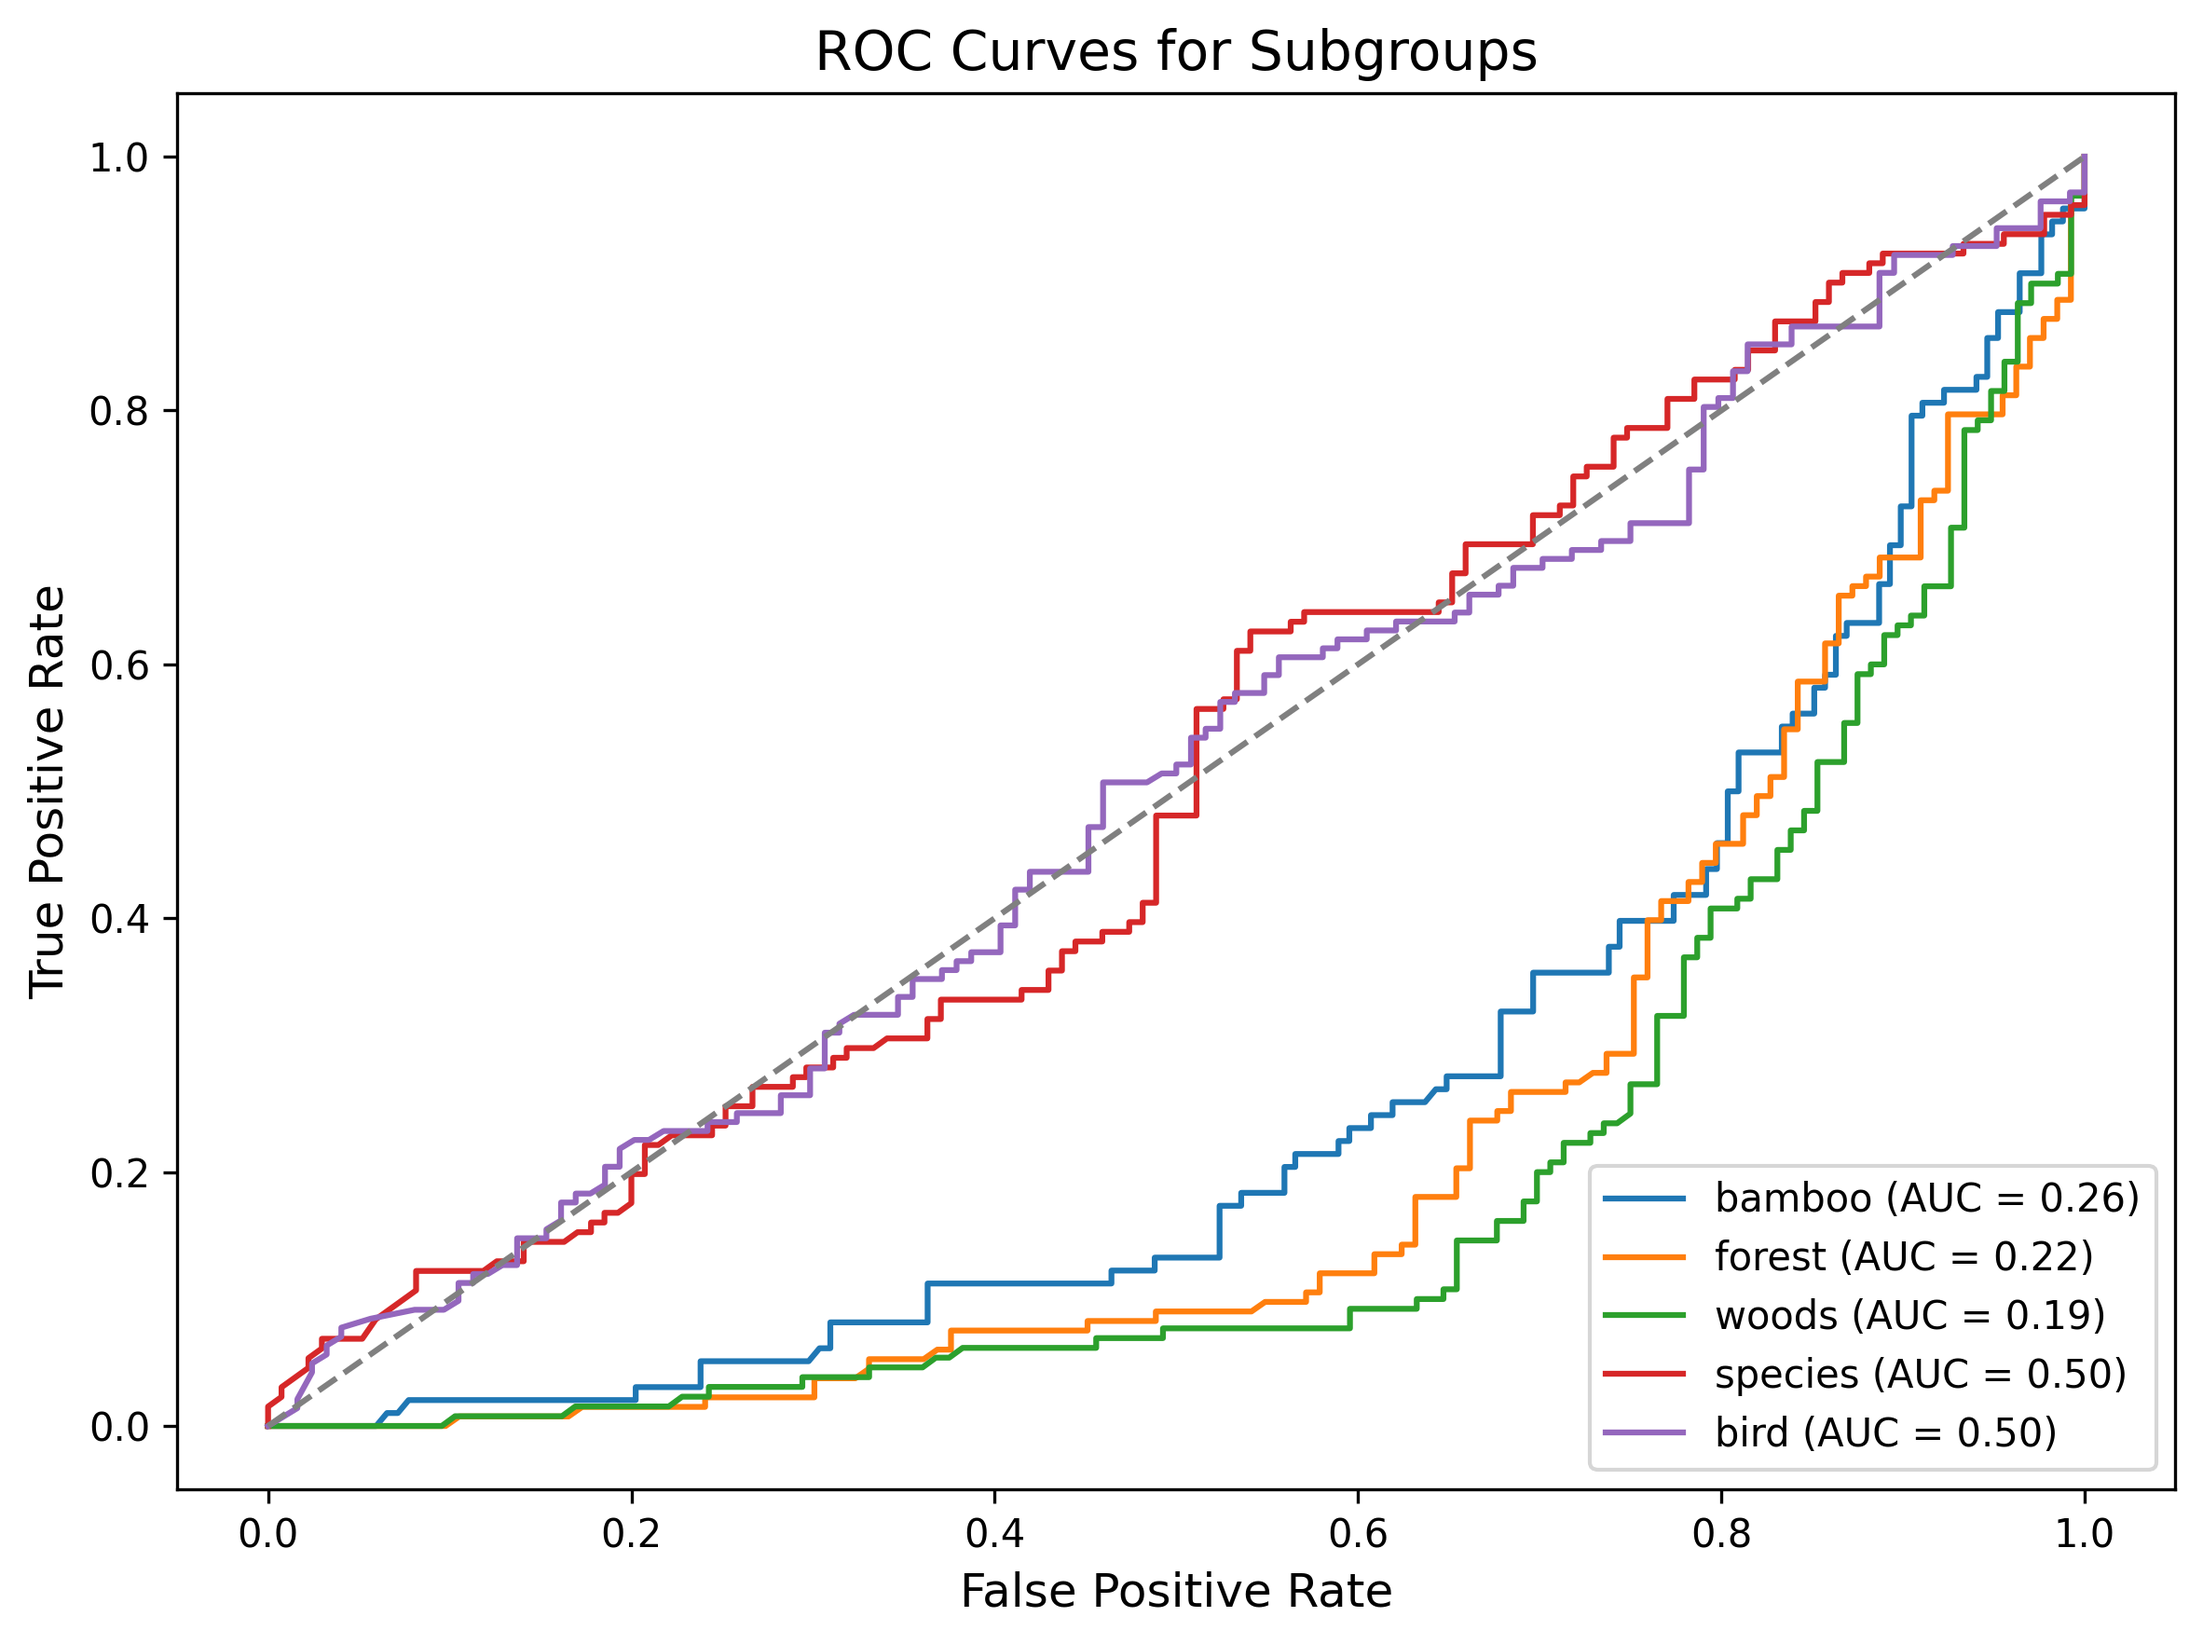
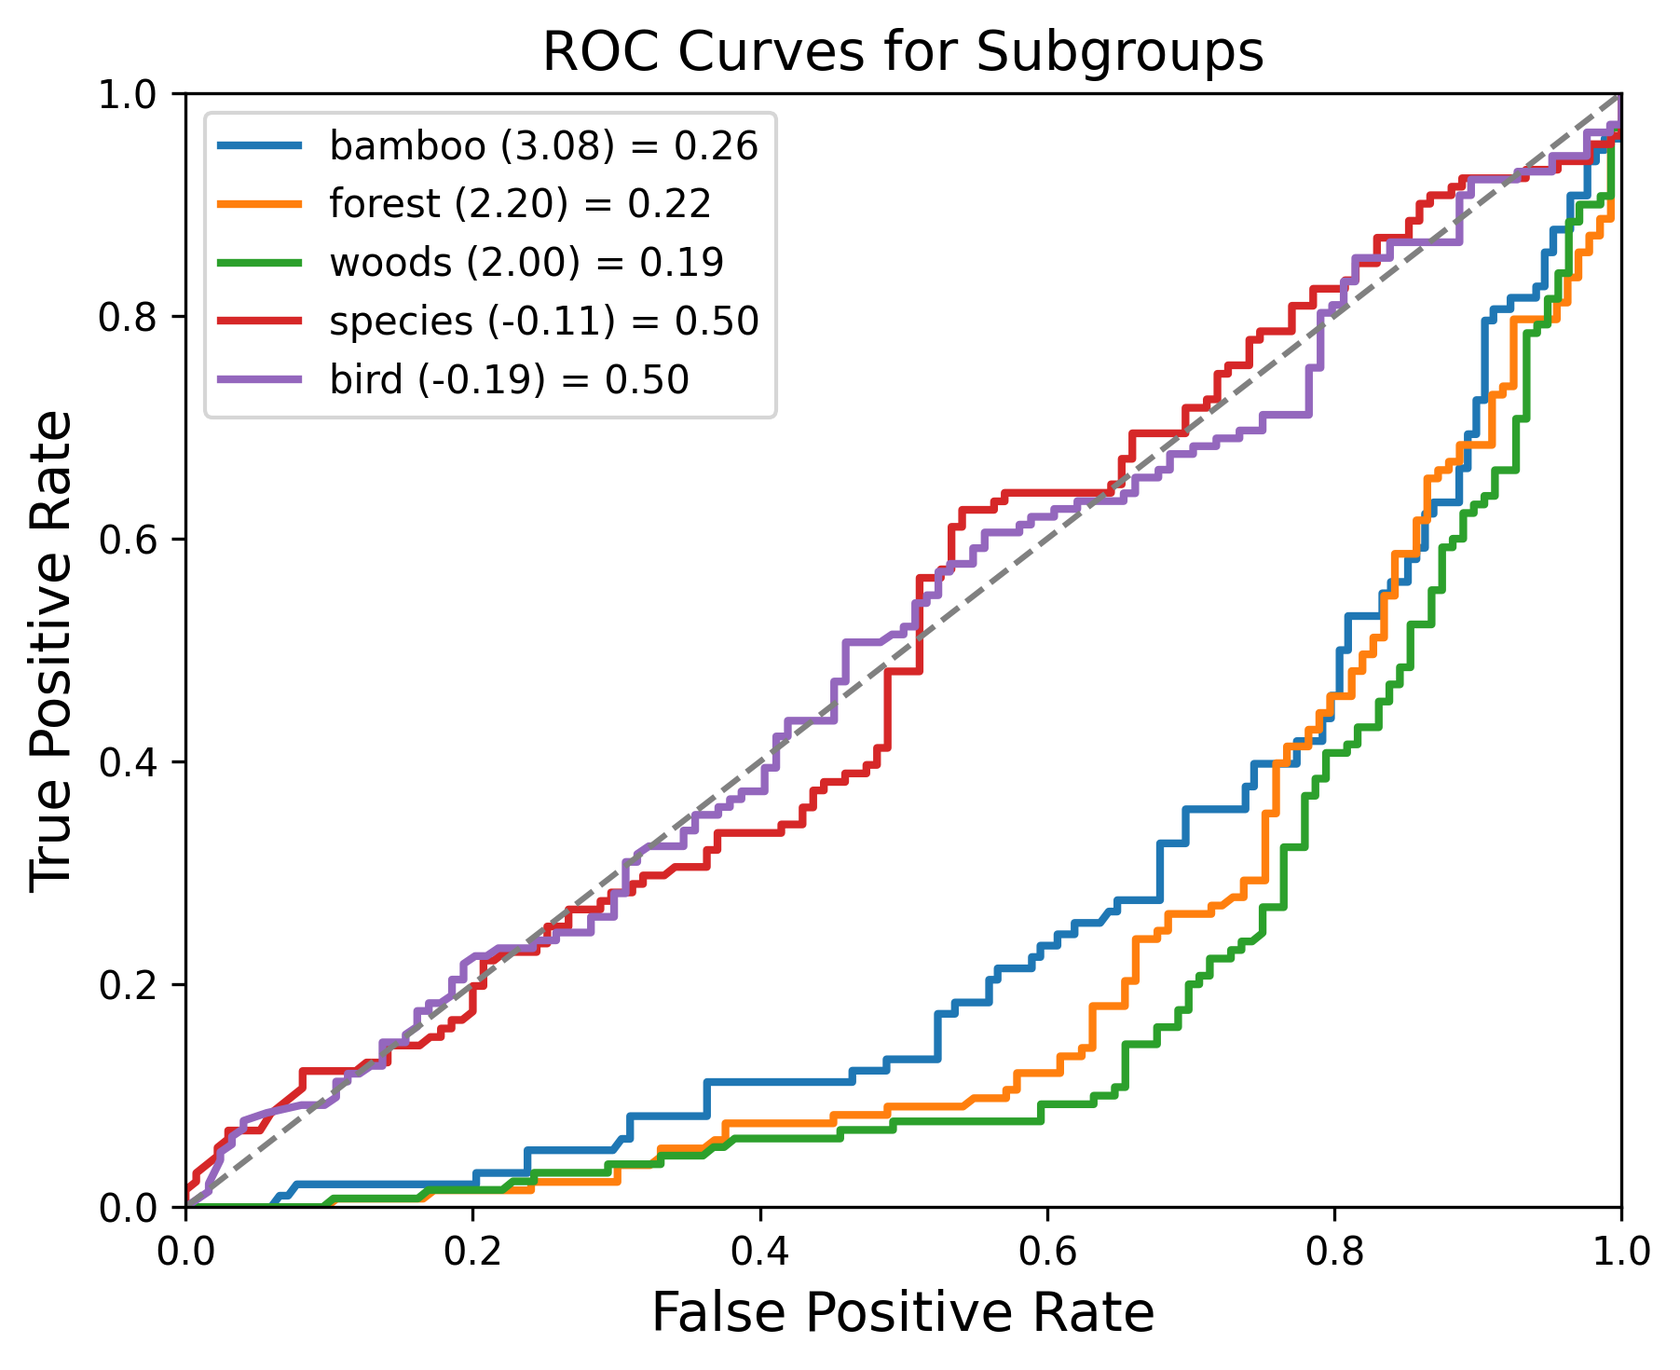
visual changes

Changed region(s): [[0.0311, 0.0, 0.9939, 0.9796], [0.0, 0.3061, 0.1242, 0.6429], [0.0311, 0.7041, 0.1242, 0.7347]]

diff --git a/plot-roc-curve.py b/plot-roc-curve.py
@@ -1,14 +1,13 @@
-import numpy as np
-import matplotlib.pyplot as plt
 from sklearn.metrics import roc_curve, auc
 from data.waterbirds import get_transform_cub
 from PIL import Image
 from tqdm import tqdm
+import numpy as np
+import matplotlib.pyplot as plt
 import skimage.io as io
 import pandas as pd
 import clip
 import torch
-import re
 
 import warnings
 from torch.serialization import SourceChangeWarning
@@ -33,7 +32,7 @@ def compute_roc_and_auc(predicted_scores, true_labels):
     return fpr, tpr, roc_auc
 
 
-def plot_roc_curves(subgroup_data, keywords, csv_file_path):
+def plot_roc_curves(subgroup_data, keywords, csv_file_path, clip_scores):
     """
     Generate and plot ROC curves for each subgroup (keyword).
 
@@ -41,7 +40,7 @@ def plot_roc_curves(subgroup_data, keywords, csv_file_path):
         subgroup_data (dict): Dictionary where keys are keywords and values are tuples of (predicted_scores, true_labels).
         keywords (list): List of keywords to plot ROC curves for.
     """
-    plt.figure(figsize=(8, 6))
+    plt.figure(figsize=(6, 5))
 
     for keyword in keywords:
         if keyword not in subgroup_data:
@@ -51,14 +50,18 @@ def plot_roc_curves(subgroup_data, keywords, csv_file_path):
         predicted_scores, true_labels = subgroup_data[keyword]
         fpr, tpr, roc_auc = compute_roc_and_auc(predicted_scores, true_labels)
 
-        plt.plot(fpr, tpr, label=f"{keyword} (AUC = {roc_auc:.2f})")
+        plt.plot(fpr, tpr, label=f"{keyword} ({clip_scores[keyword]:.2f}) = {roc_auc:.2f}", linewidth=2)
 
     plt.plot([0, 1], [0, 1], color="gray", linestyle="--")  # Diagonal line for random guessing
-    plt.xlabel("False Positive Rate", fontsize=12)
-    plt.ylabel("True Positive Rate", fontsize=12)
+    plt.xlabel("False Positive Rate", fontsize=14)
+    plt.ylabel("True Positive Rate", fontsize=14)
     plt.title("ROC Curves for Subgroups", fontsize=14)
-    plt.legend(loc="lower right", fontsize=10)
+    plt.legend(loc="upper left", fontsize=10)
     plt.tight_layout()
+
+    plt.xlim([0, 1])
+    plt.ylim([0, 1])
+
 
     fig_path = "plots/" + csv_file_path.split(".")[0].split("/")[1].split("_")[0] + "_roc_plot.png"
     plt.savefig(f"{fig_path}", dpi=300, bbox_inches="tight")
@@ -72,13 +75,13 @@ def assign_to_subgroups(similarity_scores, keywords, thresholding_method="mean")
     Parameters:
         similarity_scores (np.ndarray): Array of similarity scores for all images and keywords.
         keywords (list): List of keywords for subgroup analysis.
-        thresholding_method (str): Method to threshold images into subgroups. Options: "mean", "median", "custom".
+        thresholding_method (str): subgroup method. Options: "mean", "median", "percentile".
 
     Returns:
-        subgroup_labels (dict): Dictionary where keys are keywords and values are binary labels (1 for high similarity, 0 for low similarity).
+        subgroup_labels (dict): Keys: keyword. Values: 1 = high similarity, 0 = low similarity.
     """
     subgroup_labels = {}
-
+    valid_methods = ["mean", "median", "percentile"]
     for idx, keyword in enumerate(keywords):
         keyword_similarity_scores = similarity_scores[:, idx]
 
@@ -86,10 +89,10 @@ def assign_to_subgroups(similarity_scores, keywords, thresholding_method="mean")
             threshold = np.mean(keyword_similarity_scores)
         elif thresholding_method == "median":
             threshold = np.median(keyword_similarity_scores)
-        elif thresholding_method == "custom":
-            threshold = np.percentile(keyword_similarity_scores, 75)  # Top 25%
+        elif thresholding_method == "percentile":
+            threshold = np.percentile(keyword_similarity_scores, 75)
         else:
-            raise ValueError("Invalid thresholding_method. Choose from 'mean', 'median', 'custom'.")
+            raise ValueError(f"Invalid thresholding_method. Choose from {valid_methods}")
 
         binary_labels = (keyword_similarity_scores > threshold).astype(int)
         subgroup_labels[keyword] = (keyword_similarity_scores, binary_labels)
@@ -156,7 +159,7 @@ def classification_score(image_dir, images):
     return probabilities
 
 
-def calculate_and_plot_roc(image_dir, results_csv, keywords, thresholding_method="mean"):
+def calculate_and_plot_roc(image_dir, results_csv, keywords, clip_scores, thresholding_method="mean"):
     """
     Main function to calculate similarity scores, assign subgroups, and plot ROC curves.
 
@@ -187,11 +190,15 @@ def calculate_and_plot_roc(image_dir, results_csv, keywords, thresholding_method
         subgroup_data[keyword] = (classifier_scores, binary_labels)
 
     # Plot ROC curves
-    plot_roc_curves(subgroup_data, keywords, results_csv)
+    plot_roc_curves(subgroup_data, keywords, results_csv, clip_scores)
 
 # Example usage
 if __name__ == "__main__":
     image_dir = "data/cub/data/waterbird_complete95_forest2water2/"
     results_csv = "result/waterbird_best_model_Waterbirds_erm.csv"
+    keywords_csv = "diff/waterbird_best_model_Waterbirds_erm_waterbird.csv"
     keywords = ["bamboo", "forest", "woods", "species", "bird"]
-    calculate_and_plot_roc(image_dir, results_csv, keywords, thresholding_method="mean")
+    keyword_clip_scores = pd.read_csv(keywords_csv)
+    keyword_clip_scores = keyword_clip_scores.loc[keyword_clip_scores["Keyword"].isin(keywords), "Score"].values
+    clip_scores = {keyword: score for keyword, score in zip(keywords, keyword_clip_scores)}
+    calculate_and_plot_roc(image_dir, results_csv, keywords, clip_scores, thresholding_method="mean")
